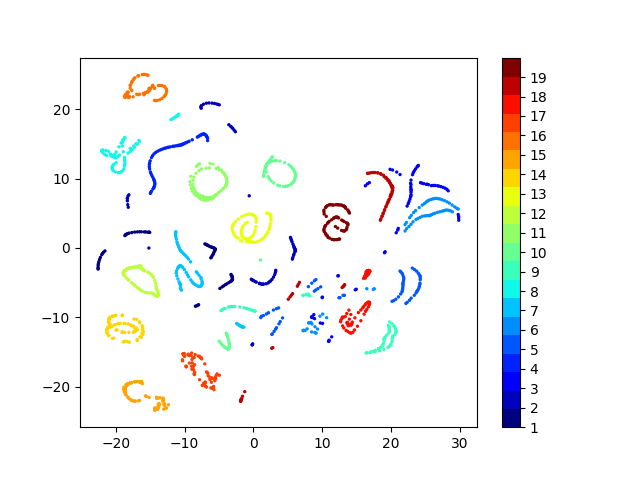
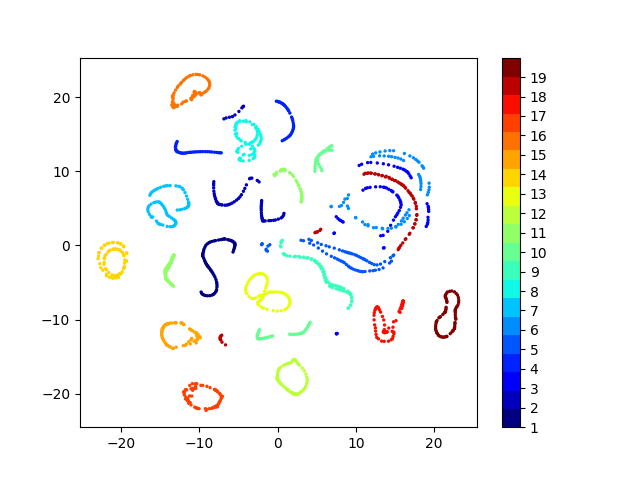
Fix visualization speed, add params and plots for MNIST, COIL20

diff --git a/main.py b/main.py
@@ -54,11 +54,11 @@ def visualizeLatentSpace(dataset_name, arch):
     dataset = DatasetHelper(dataset_name)
     dataset.loadDataset()
     rootLogger.info("Done loading dataset")
-    visualizeData(dataset.input_flat, dataset.labels, dataset.getClusterCount(), "plots/%s/raw.png"%dataset.name)
+    visualizeData(dataset.input_flat[0:5000], dataset.labels[0:5000], dataset.getClusterCount(), "plots/%s/raw.png"%dataset.name)
     Z = numpy.load('saved_params/' + dataset.name + '/z_' + arch['name'] + '.npy')
-    visualizeData(Z, dataset.labels, dataset.getClusterCount(), "plots/%s/autoencoder.png"%dataset.name)
+    visualizeData(Z[0:5000], dataset.labels[0:5000], dataset.getClusterCount(), "plots/%s/autoencoder.png"%dataset.name)
     Z = numpy.load('saved_params/' + dataset.name + '/pc_z_' + arch['name'] + '.npy')
-    visualizeData(Z, dataset.labels, dataset.getClusterCount(), "plots/%s/clustered.png"%dataset.name)
+    visualizeData(Z[0:5000], dataset.labels[0:5000], dataset.getClusterCount(), "plots/%s/clustered.png"%dataset.name)
 
 if __name__ == '__main__':
     mnist_models = []
@@ -67,9 +67,10 @@ if __name__ == '__main__':
         coil_models = json.load(models_file)
     with open("models/mnist.json") as models_file:
         mnist_models = json.load(models_file)
-    visualizeLatentSpace('COIL20', coil_models[0])
-    # testOnlyClusterInitialization('COIL20', coil_models[0], 10)
-    # testOnlyClusterImprovement('COIL20', coil_models[0], 20, 'KLD')
+    #visualizeLatentSpace('COIL20', coil_models[0])
+    visualizeLatentSpace('MNIST', mnist_models[1])
+    # testOnlyClusterInitialization('MNIST', mnist_models[1], 500)
+    # testOnlyClusterImprovement('MNIST', mnist_models[1], 100, 'KLD')
     # testOnlyClusterInitialization(mnist_models.arch0, 500,plot=[False,True])
     # testOnlyClusterInitialization(mnist_models.arch7, 500,plot=[False,True])
     # testOnlyClusterInitialization(mnist_models.arch8, 500,plot=[False,True])

diff --git a/network.py b/network.py
@@ -72,7 +72,7 @@ class DCJC(object):
                 pretrain_error += self.trainAutoencoder(inputs, targets)
                 pretrain_total_batches += 1
             self.learning_rate.set_value(self.learning_rate.get_value() * lasagne.utils.floatX(0.9999))
-            if (epoch + 1) % 1 == 0:
+            if (epoch + 1) % 20 == 0:
                 for i, batch in enumerate(dataset.iterate_minibatches(self.input_type, batch_size, shuffle=False)):
                     Z[i * batch_size:(i + 1) * batch_size] = self.predictEncoding(batch[0])
                     '''
@@ -196,8 +196,9 @@ class DCJC(object):
                 Z[i * batch_size:(i + 1) * batch_size] = self.predictEncoding(batch[0])
 
             # np.save('saved_params/%s/z_%s.npy' % (dataset.name, 'Test'), Z)
-            rootLogger.info(evaluateKMeans(Z, dataset.labels, dataset.getClusterCount(), "%d [%.4f]" % (
-                epoch, error / total_batches))[0])
+            if (epoch+1)%10 == 0:
+                rootLogger.info(evaluateKMeans(Z, dataset.labels, dataset.getClusterCount(), "%d [%.4f]" % (
+                    epoch, error / total_batches))[0])
 
         for i, batch in enumerate(dataset.iterate_minibatches(self.input_type, batch_size, shuffle=False)):
             Z[i * batch_size:(i + 1) * batch_size] = self.predictEncoding(batch[0])
